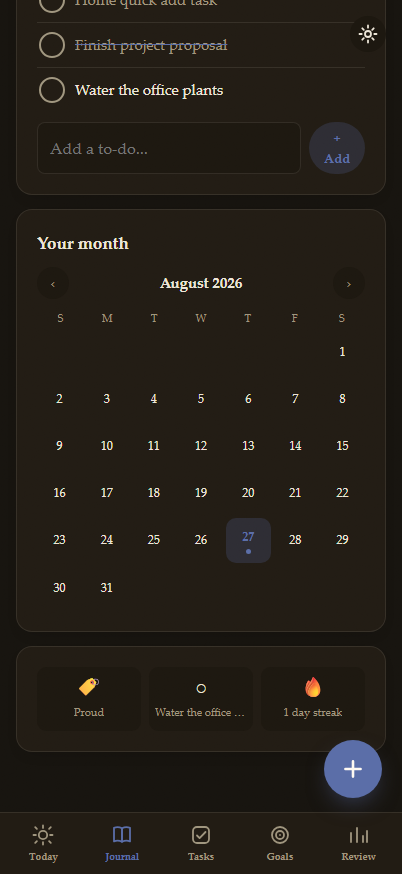
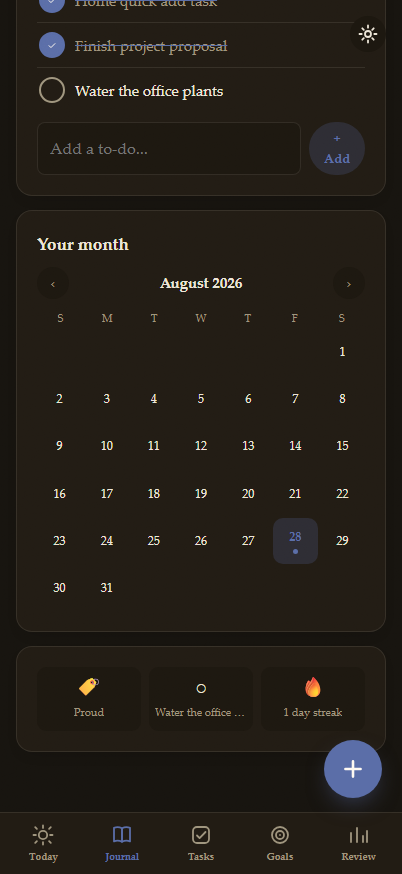
v2.2.5: fill the checkbox on the Home Today's-tasks card when done
The done-fill (accent background + checkmark) was scoped only to .task-row
(Tasks tab); the Home card uses .home-tasklist__row, so its checkbox stayed
an empty ring when checked (only the strikethrough applied). Extended the
selector to cover .home-tasklist__row.is-done .task-check so it fills + shows
the check + pop, matching the Tasks tab. Version 2.2.5, sw cache momentum-v2-7.

Claude-Session: https://claude.ai/code/session_01LwL4mP3FPJfFNKsVsGE2Vw

diff --git a/css/styles.css b/css/styles.css
@@ -362,7 +362,8 @@ body::before {
   transition: background 0.2s ease, border-color 0.2s ease, transform 0.2s ease;
 }
 .task-check svg { width: 15px; height: 15px; }
-.task-row.is-done .task-check {
+.task-row.is-done .task-check,
+.home-tasklist__row.is-done .task-check {
   background: var(--accent); border-color: var(--accent); color: #fffaf2;
   animation: check-pop 0.4s ease;
 }

diff --git a/sw.js b/sw.js
@@ -1,7 +1,7 @@
 // sw.js -- precaches the full app shell + vendor libs so Momentum works completely
 // offline. Cache-first for everything precached; network fallback (same-origin only,
 // this app makes no external calls) for anything else.
-const CACHE_NAME = 'momentum-v2-6';
+const CACHE_NAME = 'momentum-v2-7';
 const PRECACHE_URLS = [
   './',
   './index.html',

diff --git a/js/version.js b/js/version.js
@@ -1,4 +1,4 @@
 // Single source of truth for the app version. Shown in Settings so you can always
 // tell which build your device is running, and bumped on every deploy. Keep the
 // sw.js CACHE_NAME bumped in lockstep so the service worker re-caches new assets.
-export const APP_VERSION = '2.2.4';
+export const APP_VERSION = '2.2.5';
